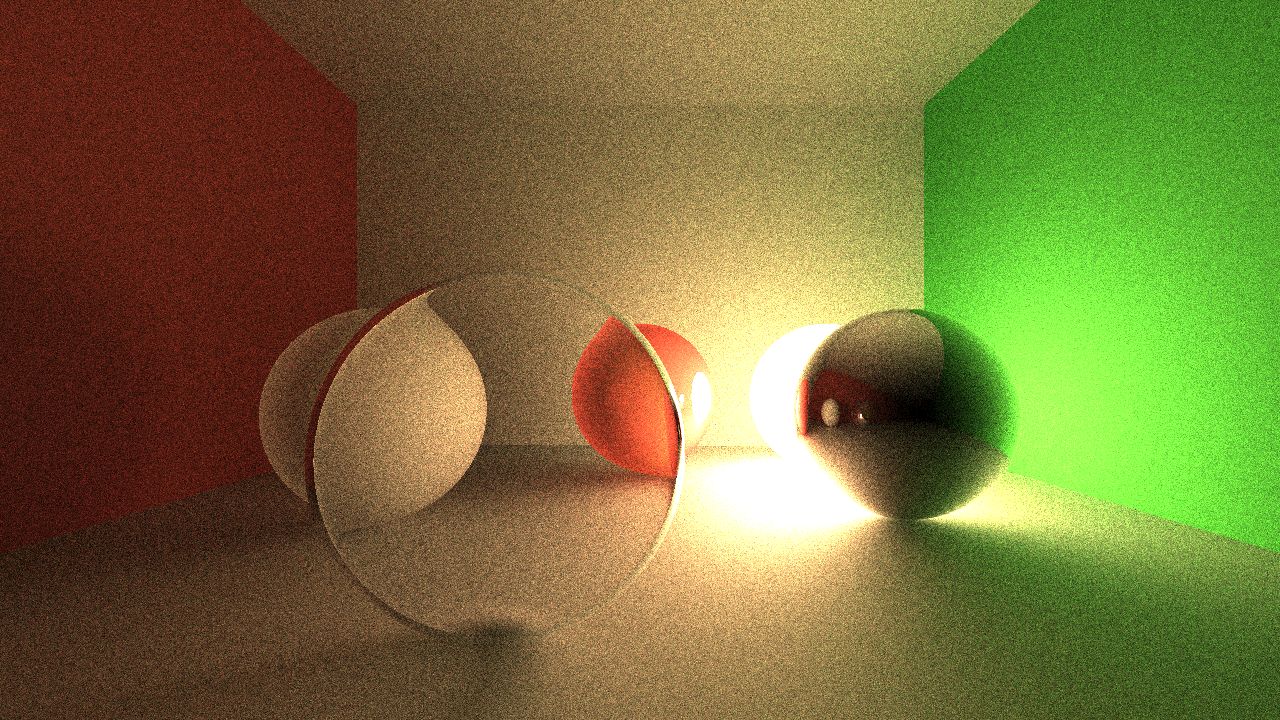
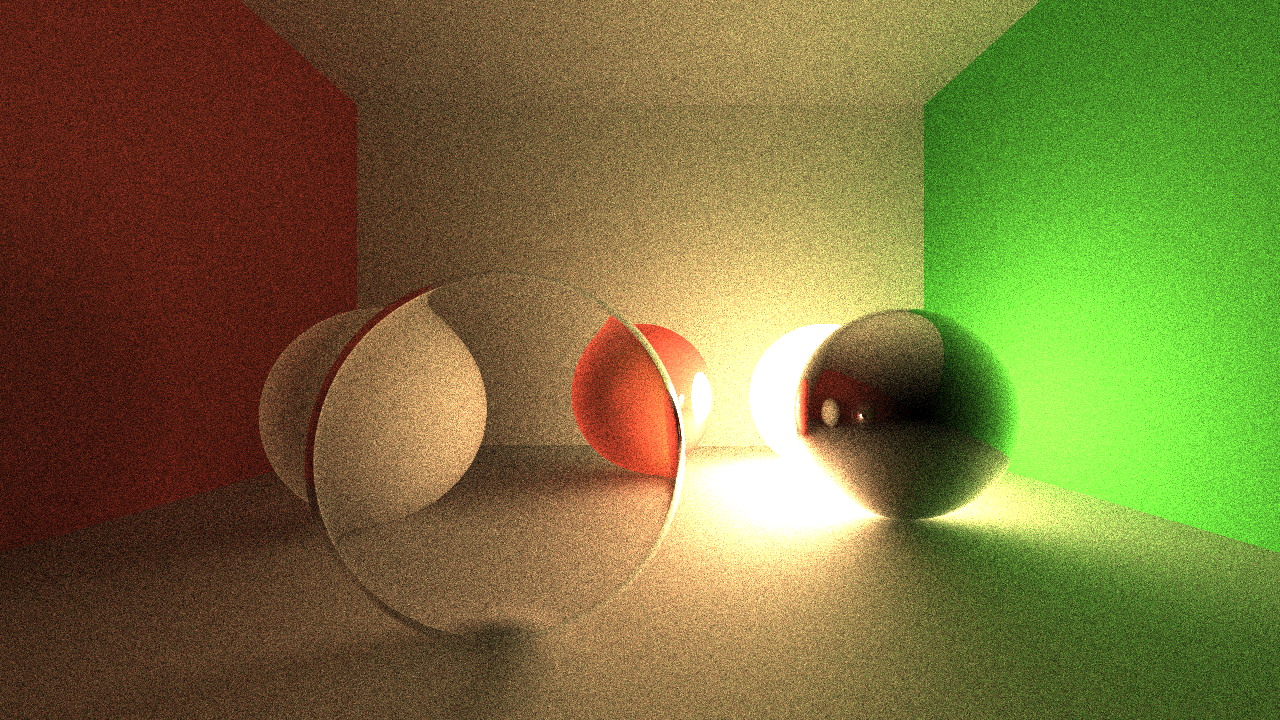
rt: dof

diff --git a/src/rt.rs b/src/rt.rs
@@ -61,7 +61,9 @@ pub struct Camera {
     pub dir: Vec4f,
     pub fov: f32,
     pub gamma: f32,
-    pub exp: f32
+    pub exp: f32,
+    pub aprt: f32,
+    pub foc: f32
 }
 
 #[derive(Serialize, Deserialize, Debug)]
@@ -222,7 +224,9 @@ impl Default for Camera {
             dir: Vec4f::forward(),
             fov: 70.0,
             gamma: 0.8,
-            exp: 0.2
+            exp: 0.2,
+            aprt: 0.001,
+            foc: 100.0
         }
     }
 }
@@ -744,7 +748,7 @@ impl RayTracer {
         })
     }
 
-    fn cast(uv: Vec2f, frame: &Frame) -> Ray {
+    fn cast(&self, uv: Vec2f, frame: &Frame) -> Ray {
         // get direction
         let tan_fov = (0.5 * frame.cam.fov).to_radians().tan();
 
@@ -754,12 +758,27 @@ impl RayTracer {
             z: -uv.y
         }.norm();
 
+        // dof
+        let mut ray = Ray::cast_default(frame.cam.pos, dir);
+        ray.t = frame.cam.foc;
+
+        let p = Vec3f::from(&ray);
+
+        let pos = Vec3f {
+            x: frame.cam.pos.x + (rand::thread_rng().sample(self.sampler) - 0.5) * frame.cam.aprt,
+            y: frame.cam.pos.y,
+            z: frame.cam.pos.z + (rand::thread_rng().sample(self.sampler) - 0.5) * frame.cam.aprt
+        };
+
+        let new_dir = (p - pos).norm();
+
+        // rotation
         let cam_dir = frame.cam.dir;
         let look = Mat4f::lookat(cam_dir, Vec3f::up());
         let rot_y = Mat3f::rotate_y(cam_dir);
 
         // cast
-        Ray::cast_default(frame.cam.pos, rot_y * (look * dir))
+        Ray::cast_default(pos, rot_y * (look * new_dir))
     }
 
     pub fn raytrace<'a, I>(&self, scene: &'a Scene, it: I) -> Vec3f where I: Iterator<Item = (RayHit<'a>, Option<Vec<&'a Light>>)> + Clone {
@@ -776,7 +795,7 @@ impl RayTracer {
             y: (coord.y - 0.5 * h) / h
         };
 
-        let ray = RayTracer::cast(uv, frame);
+        let ray = RayTracer::cast(self, uv, frame);
 
         RaytraceIterator {
             rt: self,

diff --git a/src/cli.rs b/src/cli.rs
@@ -60,7 +60,7 @@ pub struct CLI {
     pub ssaa: Option<f32>,
 
     // scene builder
-    #[arg(long, value_names = ["pos: <f32 f32 f32>", "dir: <f32 f32 f32 f32>", "fov: <f32>", "gamma: <f32>", "exp: <f32>"], num_args = 1..,  allow_negative_numbers = true, next_line_help = true, help = "Add camera to the scene")]
+    #[arg(long, value_names = ["pos: <f32 f32 f32>", "dir: <f32 f32 f32 f32>", "fov: <f32>", "gamma: <f32>", "exp: <f32>", "aprt: <f32>", "foc: <f32>"], num_args = 1..,  allow_negative_numbers = true, next_line_help = true, help = "Add camera to the scene")]
     pub cam: Option<Vec<String>>,
 
     #[arg(long, value_names = ["type: sphere(sph)|plane(pln)|box", "name: <str>", "param: <sphere: r: <f32>>|<plane: n: <f32 f32 f32>>|<box: size: <f32 f32 f32>>", "pos: <f32 f32 f32>", "dir: <f32 f32 f32 f32>", "albedo: <f32 f32 f32>|hex", "rough: <f32>", "metal: <f32>", "glass: <f32>", "opacity: <f32>", "emit: <f32>", "tex: <FILE.ext|<base64 str>>", "rmap: <FILE.ext|<base64 str>>", "mmap: <FILE.ext|<base64 str>>", "gmap: <FILE.ext|<base64 str>>", "omap: <FILE.ext|<base64 str>>", "emap: <FILE.ext|<base64 str>>"], num_args = 0.., action = clap::ArgAction::Append, allow_negative_numbers = true, next_line_help = true, help = "Add renderer to the scene")]

diff --git a/src/cli_parser.rs b/src/cli_parser.rs
@@ -73,6 +73,8 @@ impl FromArgs for Camera {
                 "fov:" => cam.fov = <f32>::parse(&mut it)?,
                 "gamma:" => cam.gamma = <f32>::parse(&mut it)?,
                 "exp:" => cam.exp = <f32>::parse(&mut it)?,
+                "aprt:" => cam.aprt = <f32>::parse(&mut it)?,
+                "foc:" => cam.foc = <f32>::parse(&mut it)?,
                 _ => return Err(format!("`{}` param for `cam` is unxpected!", param))
             }
         }

diff --git a/README.md b/README.md
@@ -101,7 +101,7 @@ Options:
           Frame output image resolution
       --ssaa <SSAA>
           Output image SSAAx antialiasing
-      --cam <pos: <f32 f32 f32>> <dir: <f32 f32 f32 f32>> <fov: <f32>> <gamma: <f32>> <exp: <f32>>...
+      --cam <pos: <f32 f32 f32>> <dir: <f32 f32 f32 f32>> <fov: <f32>> <gamma: <f32>> <exp: <f32>> <aprt: <f32>> <foc: <f32>>...
           Add camera to the scene
       --obj [<type: sphere(sph)|plane(pln)|box> <name: <str>> <param: <sphere: r: <f32>>|<plane: n: <f32 f32 f32>>|<box: size: <f32 f32 f32>>> <pos: <f32 f32 f32>> <dir: <f32 f32 f32 f32>> <albedo: <f32 f32 f32>|hex> <rough: <f32>> <metal: <f32>> <glass: <f32>> <opacity: <f32>> <emit: <f32>> <tex: <FILE.ext|<base64 str>>> <rmap: <FILE.ext|<base64 str>>> <mmap: <FILE.ext|<base64 str>>> <gmap: <FILE.ext|<base64 str>>> <omap: <FILE.ext|<base64 str>>> <emap: <FILE.ext|<base64 str>>>...]
           Add renderer to the scene
@@ -418,7 +418,7 @@ raytrace -v -d --obj sphere --light point: -0.5 -1 0.5
 ```
 
 ```json
-{"frame":{"cam":{"dir":[0.0,0.0,1.0,0.0],"exp":0.20000000298023224,"fov":70.0,"gamma":0.800000011920929,"pos":[-0.0,-1.0,-0.0]},"res":[1280,720],"ssaa":1.0},"rt":{"bounce":8,"loss":0.15000000596046448,"sample":16},"scene":{"light":[{"color":[1.0,1.0,1.0],"pos":[-0.5,-1.0,0.5],"pwr":0.5,"type":"point"}],"renderer":[{"dir":[0.0,0.0,1.0,0.0],"mat":{"albedo":[1.0,1.0,1.0],"emap":null,"emit":0.0,"glass":0.0,"gmap":null,"metal":0.0,"mmap":null,"omap":null,"opacity":1.0,"rmap":null,"rough":0.0,"tex":null},"pos":[0.0,0.0,0.0],"r":0.5,"type":"sphere"}],"sky":{"color":[0.0,0.0,0.0],"pwr":0.5}}}
+{"rt":{"bounce":8,"sample":16,"loss":0.15},"frame":{"res":[1280,720],"ssaa":1.0,"cam":{"pos":[-0.0,-1.0,-0.0],"dir":[0.0,0.0,1.0,0.0],"fov":70.0,"gamma":0.8,"exp":0.2,"aprt":0.001,"foc":100.0}},"scene":{"renderer":[{"type":"sphere","r":0.5,"mat":{"albedo":[1.0,1.0,1.0],"rough":0.0,"metal":0.0,"glass":0.0,"opacity":1.0,"emit":0.0,"tex":null,"rmap":null,"mmap":null,"gmap":null,"omap":null,"emap":null},"pos":[0.0,0.0,0.0],"dir":[0.0,0.0,1.0,0.0],"name":null}],"light":[{"type":"point","pos":[-0.5,-1.0,0.5],"pwr":0.5,"color":[1.0,1.0,1.0]}],"sky":{"color":[0.0,0.0,0.0],"pwr":0.5}}}
 ```
 
 2. With prettifier:
@@ -428,28 +428,30 @@ raytrace -v -d --pretty --obj sphere --light point: -0.5 -1 0.5
 
 ```json
 {
-    "frame": {
-        "cam": {
-            "dir": [0, 0, 1, 0],
-            "exp": 0.20000000298023224,
-            "fov": 70,
-            "gamma": 0.800000011920929,
-            "pos": [0, -1, 0]
-        },
-        "res": [1280, 720],
-        "ssaa": 1
-    },
     "rt": {
         "bounce": 8,
-        "loss": 0.15000000596046448,
-        "sample": 16
+        "sample": 16,
+        "loss": 0.15
+    },
+    "frame": {
+        "res": [1280, 720],
+        "ssaa": 1,
+        "cam": {
+            "pos": [0, -1, 0],
+            "dir": [0, 0, 1, 0],
+            "fov": 70,
+            "gamma": 0.8,
+            "exp": 0.2,
+            "aprt": 0.001,
+            "foc": 100
+        }
     },
     "scene": {
         "renderer": [
             {
+                "name": null,
                 "type": "sphere",
                 "r": 0.5,
-                "dir": [0, 0, 1, 0],
                 "mat": {
                     "albedo": [1, 1, 1],
                     "rough": 0,
@@ -464,15 +466,16 @@ raytrace -v -d --pretty --obj sphere --light point: -0.5 -1 0.5
                     "omap": null,
                     "emap": null
                 },
-                "pos": [0, 0, 0]
+                "pos": [0, 0, 0],
+                "dir": [0, 0, 1, 0]
             }
         ],
         "light": [
             {
                 "type": "point",
+                "pos": [-0.5, -1, 0.5],
                 "pwr": 0.5,
-                "color": [1, 1, 1],
-                "pos": [-0.5, -1, 0.5]
+                "color": [1, 1, 1]
             }
         ],
         "sky": {
